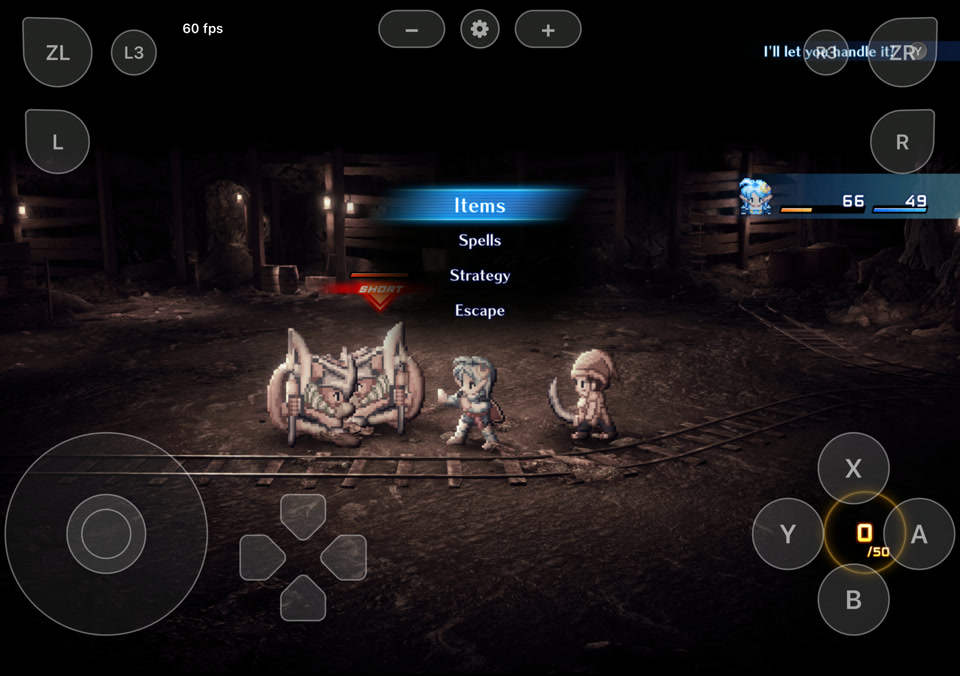
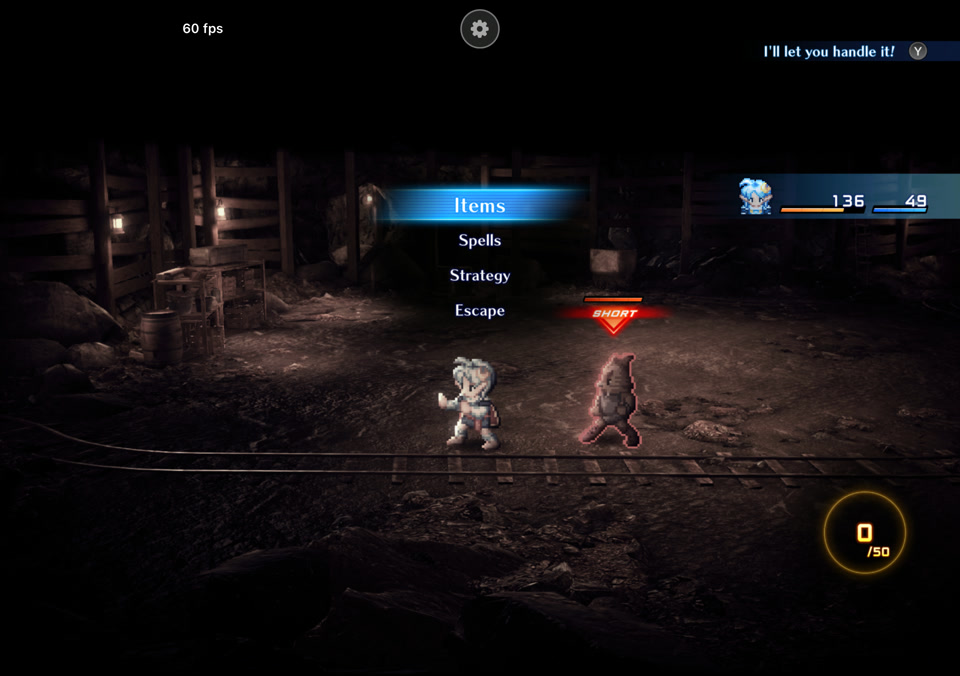
Replace remaining virtual-control frames with clean device captures

diff --git a/README.md b/README.md
@@ -2,7 +2,7 @@
 
 Game 1.1.0 (v196608). Matched Mac headless captures from the earlier tall-screen-only port, using the same copied test save. The original column disables tall-screen rendering on that build. The game rendered 1920×1080 and 1920×1200; the images were resized proportionally for viewing, not cropped or stretched.
 
-The iPhone Duo column uses screenshots taken on the physical phone with its inner display in landscape, the stock **Match screen** setting, with touch controls visible where enabled. The physical captures use the rebased combined test build, which also has a separate 60 fps patch. Mac renders at a Duo-shaped ratio are not included as device evidence.
+The iPhone Duo column uses screenshots taken on the physical phone with its inner display in landscape and the stock **Match screen** setting. The physical captures use the rebased combined test build, which also has a separate 60 fps patch. Mac renders at a Duo-shaped ratio are not included as device evidence.
 
 ## Arlia field and HUD
 
@@ -22,7 +22,7 @@ The same cave battle room and player character. The corner HUD follows the talle
 
 ## Battle command menu
 
-The paused battle shows the command list and the HUD together. The menu stays centered and gameplay is visible behind it.
+The paused battle shows the command list and the HUD together. The menu stays centered and gameplay is visible behind it. Enemy groups and current HP vary across the captures.
 
 | Original 16:9 | MacBook 16:10 | iPhone Duo 1.43:1 (physical) |
 | --- | --- | --- |
